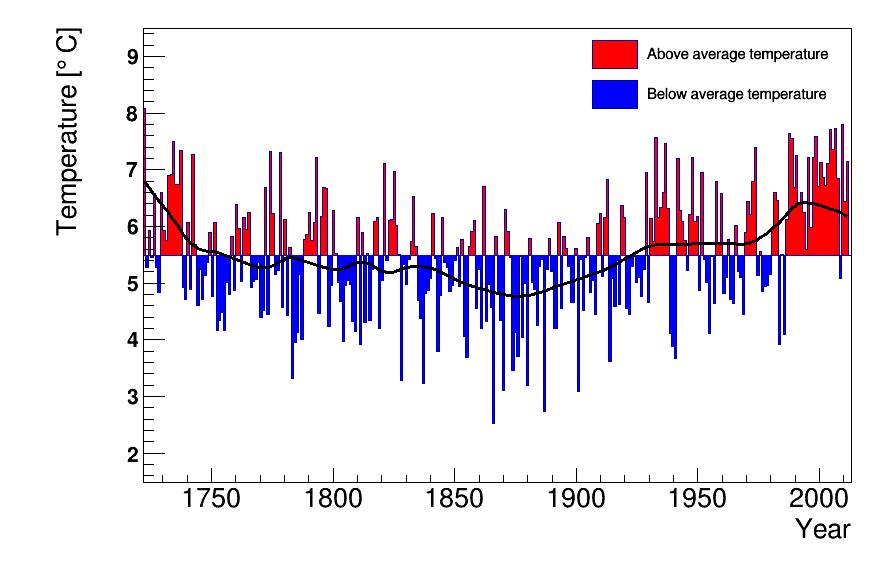
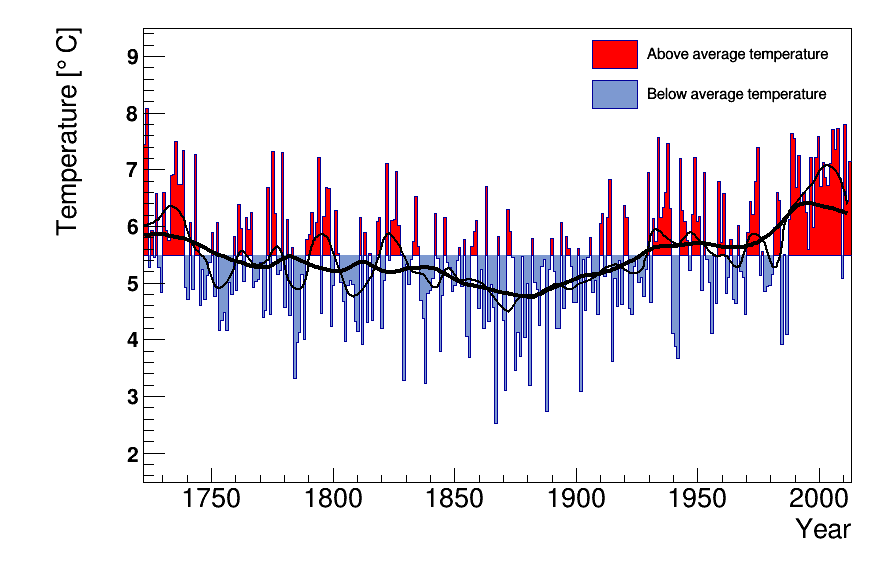
global_warming.C is complete and the code is well structured and commented.

Changed region(s): [[0.1562, 0.2073, 0.9688, 0.7404], [0.6562, 0.1185, 0.7188, 0.2073], [0.9062, 0.9181, 0.9375, 0.9477]]

diff --git a/code/global_warming.C b/code/global_warming.C
@@ -5,7 +5,10 @@
 // 2017-11-06
 //
 // 
-// Reads data from file and calculates 
+// Reads data from file, from given start year to end year, and draws a histogram of the average temperature for different years
+// Two graphs are also added to the histogram displaying moving averages (average temperature over a couple of years)
+// The code works with any of the given data files, but the limited amount of data in all but the "Uppsala.dat" makes this kind of histogram rather unrewarding for those data files
+// Make sure that the given start year is not prior to the available data in the data file
 
 // include C++ STL headers that are used to read the data
 #include <iostream>
@@ -28,111 +31,119 @@ using namespace std;
 
 
 // Reads data and generates a histogram of the average temperature over different years
-void global_warming_function(string path, int startYear, int endYear) {		//argument is path of data file (e.x. "../data/Uppsala.dat")
-	
-	int numberOfYears = endYear-startYear+1;	//+1 because the end year is included
-		
+void global_warming_function(string path, int startYear, int endYear) {		// argument is path of data file (e.x. "../data/Uppsala.dat")
+			
+	// create an object that can read the data (see "treader.h")		
 	treader* tr = new treader(path);
 	
-	double temperatureSum = 0;
-	int numberOfPoints = 0;
-	double temporarySave = 0;
-	double totalSum = 0;
-	double averageTemp[numberOfYears];
-	double year[numberOfYears];
-		
-	for(int i = startYear; i<=endYear; ++i){
+	int numberOfYears = (endYear-startYear+1);	// +1 because the end year is included
+	double averageTemp[numberOfYears];			// array saving all values for the average temperature of each year
+	int numberOfDatapointsPerYear = 0;			// counter for the number of values from each year (some years have 366 days, some has multiple measurements every day...)
 
-		// Read from file while there is data to read
-		while(tr->has_next()){	//keeps reading points until there are no more data or until the if statement breaks the while-loop
+	// clears any previous data in the array
+	for(int i = 0; i < numberOfYears; ++i)
+		averageTemp[i] = 0;
 	
-			// Get tpoint
+	// fills the array with average temperature from each year
+	for(int i = 0; i < numberOfYears; ++i){
+
+		// Reads from file until the end of a year is reached
+		while(tr->has_next()){
+	
+			// Get tpoint, an object that saves the year and temperature for a data point (see "tpoint.h")
 			tpoint* tp = tr->get_tpoint();
 	
-			if(tp->get_year() > i){
-				temporarySave = tp->get_temperature();
+			// breaks while-loop if a new year is reached
+			if(tp->get_year() > i + startYear){
+				averageTemp[i+1] = tp->get_temperature();	//saves this value in the next slot in the array, so that we dont lose it
 				break;
 			}
 
-			if(tp->get_year() == i){
-				++numberOfPoints;
-				temperatureSum += tp->get_temperature();
+			// adds the temperature of the current data point only if the data point is from the correct year (this makes the code skip all data points from years prior to the requested start year)
+			if(tp->get_year() == i + startYear){
+				++numberOfDatapointsPerYear;
+				averageTemp[i] += tp->get_temperature();
 			}
 		}
 		
-		year[i-startYear] = i;
-		averageTemp[i-startYear] = temperatureSum/numberOfPoints;
-
-		totalSum += temperatureSum/numberOfPoints;
-		temperatureSum = temporarySave;
-		numberOfPoints = 1;
+		averageTemp[i] /= numberOfDatapointsPerYear;
+		numberOfDatapointsPerYear = 1;		// 1 because of the value added just before the break
 	}
 	
-	
-	
-	//calculate a total average over all years
+	//calculates a total average over all years
 	double totAverage = 0;
 	for(int i = 0; i < numberOfYears; ++i){
 		totAverage += averageTemp[i]/numberOfYears;
 	}
 
-
-
-			// Create canvas
-	TCanvas* c1 = new TCanvas("c1", "v2 canvas", 900, 600);
+	// Creates canvas
+	TCanvas* c1 = new TCanvas("c1", "Average Temperature", 900, 600);
 	
-	// Create histogram
-	TH1F* histoRed = new TH1F("hV2", "Rooion; Year; Temperature [#circ C]",numberOfYears , startYear, endYear);	
-	TH1F* histoBlue = new TH1F("hV2", "Rooion; #varphi; Counts",numberOfYears , startYear, endYear);
-	TH1F* histoTot = new TH1F("hV2", "Rooion; #varphi; Counts",numberOfYears , startYear, endYear);
+	// Creates histograms
+	TH1F* histoRed = new TH1F("Red", ";Year; Temperature [#circ C]",numberOfYears , startYear, endYear);	
+	TH1F* histoBlue = new TH1F("Blue", "; Year; Temperature [#circ C",numberOfYears , startYear, endYear);
+	TH1F* histoTot = new TH1F("Total", "; Year; Temperature [#circ C",numberOfYears , startYear, endYear);		//will include all values. Will not be drawn, only needed for creating the graphs
 	
-	
+	// adds the temperatures to the histograms
 	for(int i = 0; i<numberOfYears; ++i){
-		double temp = averageTemp[i] - totAverage;
+		double temp = averageTemp[i] - totAverage;	//temperatures being focused around 0 instead of the total average. I was only able to create the picture with the blue pillars dropping down from zero, so I eventually solved it by creating a new "fake" y-axis instead
 		histoTot->SetBinContent(i+1,temp);
+	
 		if(temp >= 0)
 			histoRed->SetBinContent(i+1,temp);
 		else
 			histoBlue->SetBinContent(i+1,temp);	
 		}	
 		
-	TLegend *leg = new TLegend(0.65, 0.80, 0.94, 0.94, "", "NDC");
-	leg->SetFillStyle(0); //Hollow fill (transparent)
-	leg->SetBorderSize(0); //Get rid of the border
-	leg->AddEntry(histoRed, "Above average temperature", "F"); //Use object title, draw fill
-	leg->AddEntry(histoBlue, "Below average temperature", "F"); //Use custom title	
+	//Creates a legend
+	TLegend *legend = new TLegend(0.65, 0.80, 0.94, 0.94, "", "NDC");
+	legend->SetFillStyle(0); 
+	legend->SetBorderSize(0);
+	legend->AddEntry(histoRed, "Above average temperature", "F"); 
+	legend->AddEntry(histoBlue, "Below average temperature", "F");
 	
+	// Creates a graph showing a moving average
 	int movingAverageRange = 20;
 	int movingAverageSteplength = 10;
-	
-	TGraph* graph = new TGraph();
+	TGraph* graph1 = new TGraph();
 	for(int bin = 1; bin < histoTot->GetNbinsX(); bin += movingAverageSteplength) {
 		double y = 0;
-		
 		for(int i = -movingAverageRange; i <= movingAverageRange; ++i) 
-			y += (histoTot->GetBinContent(bin+i)/(movingAverageRange*2+1));
-		
-		graph->Expand(graph->GetN() + 1, 100);
-		graph->SetPoint(graph->GetN(), histoTot->GetBinCenter(bin),y);
+			y += (histoTot->GetBinContent(bin+i)/(movingAverageRange*2+1));		
+		graph1->SetPoint(graph1->GetN(), histoTot->GetBinCenter(bin),y);
 	}
-			
-	histoRed->GetYaxis()->SetBinLabel(1," ");
+	graph1->SetLineWidth(4);
+	
+	// Creates a second graph showing another moving average
+	movingAverageRange = 5;
+	movingAverageSteplength = 5;
+	TGraph* graph2 = new TGraph();
+	for(int bin = 1; bin < histoTot->GetNbinsX(); bin += movingAverageSteplength) {
+		double y = 0;	
+		for(int i = -movingAverageRange; i <= movingAverageRange; ++i) 
+			y += (histoTot->GetBinContent(bin+i)/(movingAverageRange*2+1));	
+		graph2->SetPoint(graph2->GetN(), histoTot->GetBinCenter(bin),y);
+	}
+	graph2->SetLineWidth(2);
+		
+	// The temperatures are actually focused around T = 0, so a new "fake" y-axis has to be constructed
+	TGaxis *y_axis = new TGaxis(startYear,-4,startYear,4,-4+totAverage,4+totAverage,510);
+	y_axis->SetName("y-axis");
+		
+	histoRed->GetYaxis()->SetBinLabel(1," ");	//removes old y-axis
 	histoRed->SetMinimum(-4);
 	histoRed->SetMaximum(4);
 	histoRed->SetFillColor(2);
-	histoBlue->SetFillColor(4);
+	histoBlue->SetFillColor(38);
+	
 	histoRed->Draw();
 	histoBlue->Draw("Same");
-
-	TGaxis *axis2 = new TGaxis(startYear,-4,startYear,4,-4+totAverage,4+totAverage,510);
-	axis2->SetName("axis2");
-	axis2->Draw();
-	leg->Draw();
+	graph1->Draw("SAME C");
+	graph2->Draw("SAME C");
+	legend->Draw();
+	y_axis->Draw();
 	
-	graph->SetLineWidth(3);
-	graph->Draw("SAME C");
-	
-			// Save canvas as a picture
+	// Saves canvas on computer
 	c1->SaveAs("global_warming.png");
 }
 
